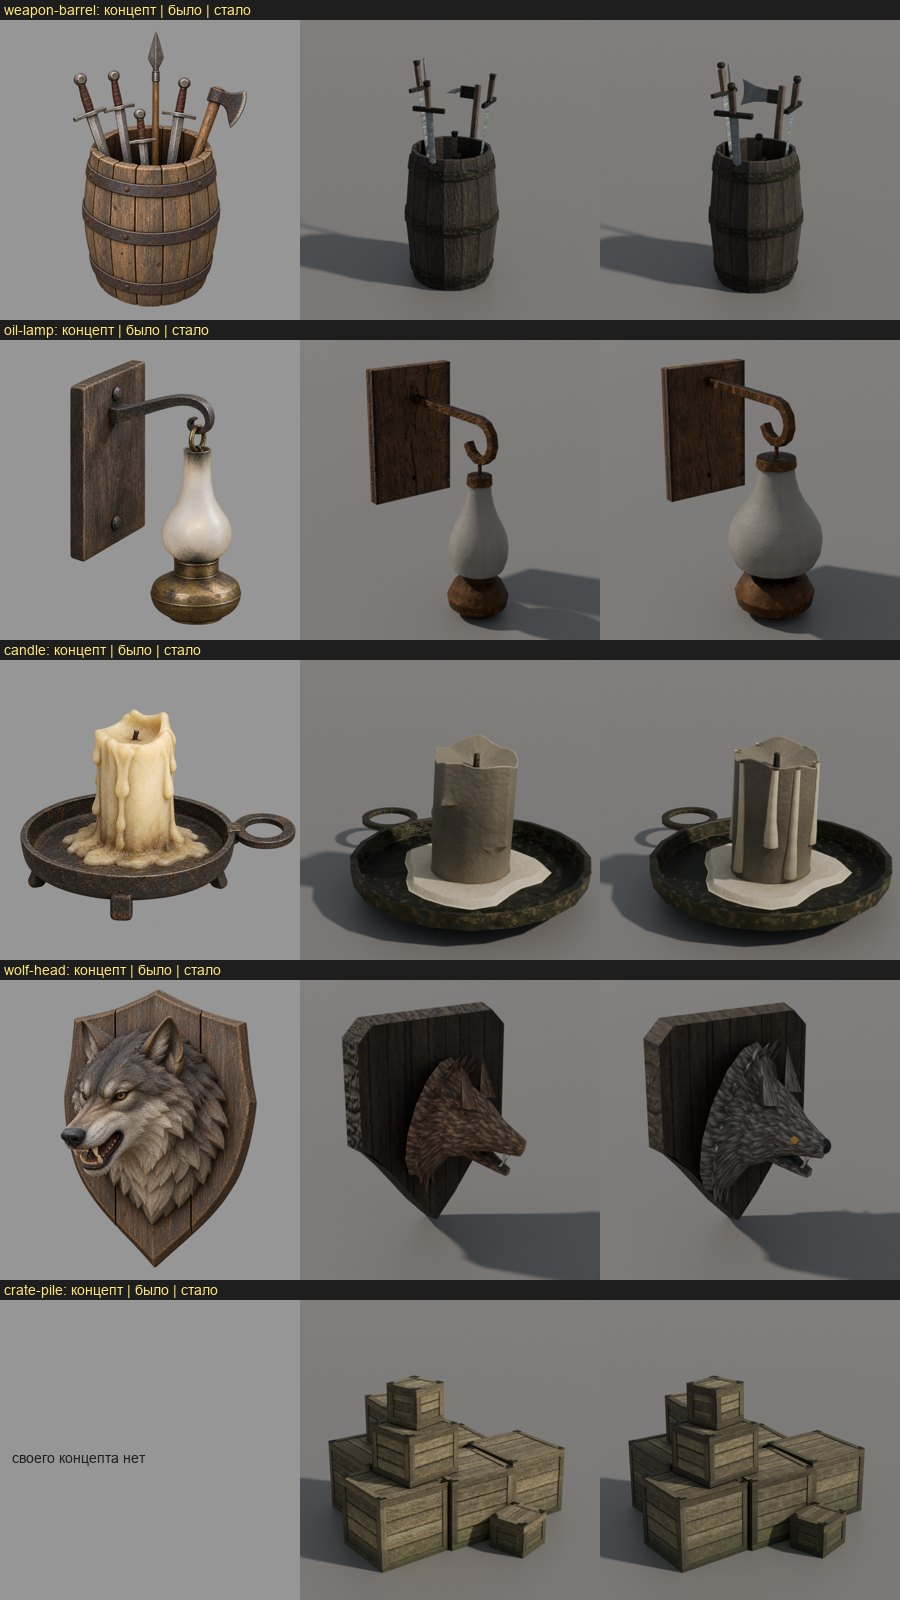
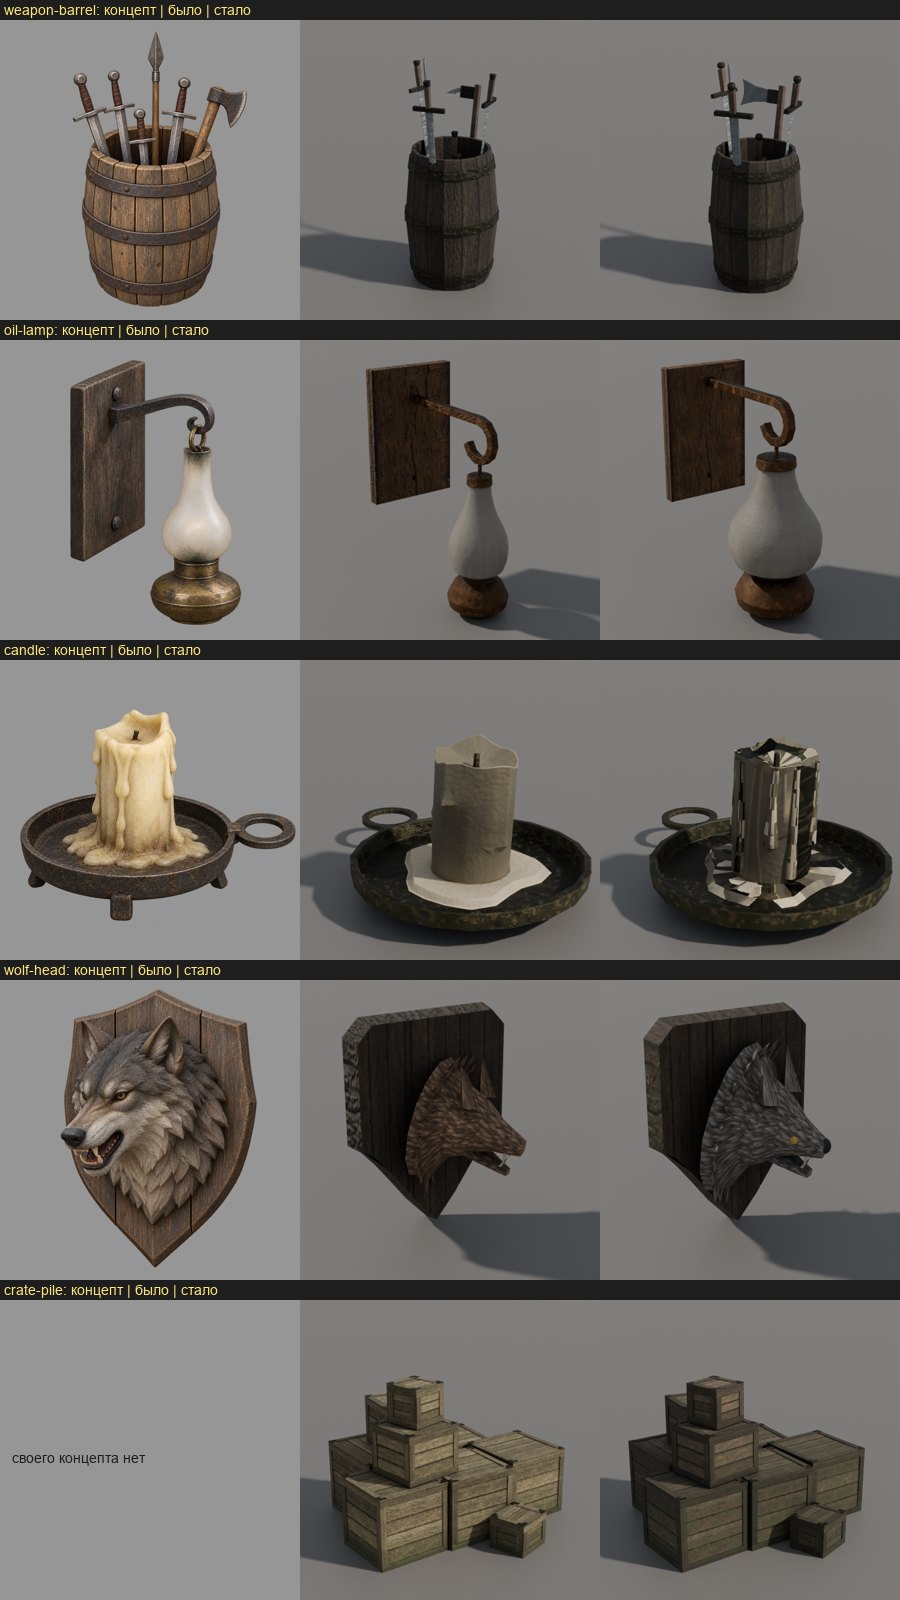
content: candle body faces out; darker crate pile; in-game check
The candle body was open at the bottom and the shared normal
recalculation turned it inside out, so it rendered black in game; a
hidden bottom cap closes it. Second crate pile pass: darker target,
moss over the full height, weak edge wear. Report gets the in-game
sheet (21/21 replaced, no originals opened) and the updated weak
points.

Changed region(s): [[0.7778, 0.4375, 0.9333, 0.5938], [0.7467, 0.875, 0.9644, 0.9688]]

diff --git a/scripts/content/mesh3d/blender/candle.py b/scripts/content/mesh3d/blender/candle.py
@@ -136,9 +136,11 @@ for k in range(csides):
     col.append(radial * (r_c * 0.6) + Z * (h_c - 0.014 - top_drop[k] * 0.5))   # melted rim folding in
     rows.append([P.vert(floor + tilt @ p, part) for p in col])
 centre_top = P.vert(floor + tilt @ (Z * (h_c - 0.03)), part)
+centre_bottom = P.vert(floor, part)   # a hidden cap under the foot: open, the body came out inside out in game
 n = len(rows[0])
 for k in range(csides):
     k2 = (k + 1) % csides
+    P.poly((rows[k2][0], rows[k][0], centre_bottom), WAX, ((0, 0), (0.1, 0), (0.05, 0.1)))
     u0, u1 = k / csides * 2 * math.pi * r_c / wax_tile, (k + 1) / csides * 2 * math.pi * r_c / wax_tile
     for i in range(n - 1):
         v0, v1 = i * h_c / crings / wax_tile, (i + 1) * h_c / crings / wax_tile

diff --git a/scripts/content/mesh3d/blender/weapon_barrel.py b/scripts/content/mesh3d/blender/weapon_barrel.py
@@ -171,9 +171,8 @@ def axe(top, axis, length):
 def spear(top, axis, length):
     flat, edge = frame(axis)
     hl, hw = cfg.get("spear", [0.32, 0.085])
-    tip = top - axis * 0.0
     socket = top + axis * hl
-    lens(socket, tip, hw, 0.016, STEEL, P.new_part(), taper=0.9)          # leaf from the socket to the point
+    lens(socket, top, hw, 0.016, STEEL, P.new_part(), taper=0.9)          # leaf from the socket to the point
     P.post(socket, socket + axis * 0.06, 0.04, 0.034, flat, edge, IRON, 0.1)
     P.post(socket + axis * 0.06, top + axis * length, 0.032, 0.032, flat, edge, HAFT, 0.3)
 

diff --git a/scripts/content/mesh3d/blender/wolf_head.py b/scripts/content/mesh3d/blender/wolf_head.py
@@ -149,6 +149,7 @@ for sx in (-1, 1):
     for i in range(4):
         P.poly((corners[i], corners[(i + 1) % 4], apex), FUR, ((0, 0), (0.1, 0), (0.05, 0.15)))
 
+
 def dome(centre, normal, radius, depth, material, segs=8):
     """A low dome (eye, nose) on the surface: a ring at the base and a rounded cap toward normal."""
     n = normal.normalized()

diff --git a/reports/content/2026-10-market-set/README.md b/reports/content/2026-10-market-set/README.md
@@ -37,7 +37,7 @@
 | ковёр | `NW_CITY_CARPET_03` | 32 / 2 | 50 → 480 (600) | 2048, 76% | свой рисунок (вид сверху своего концепта), бахрома, загнутый угол |
 | канаты | `NW_HARBOUR_ROPE_01` | 47 / 6 | 177 → 3880 (4000) | 2048, 14% | две бухты каната по спирали, вторая лежит на первой, концы |
 | поленница | `OC_FIREWOOD_V3` | 12 / 3 | 438 → 1968 (3000) | 2048, 28% | 90 поленьев (кругляк, половинки, четвертинки), кора, торцы с кольцами вокруг сердцевины |
-| свеча | `NW_CITY_CANDLE_01` | 157 / 5 | 124 → 2636 (2700) | 1024, 30% | железная плошка на ножках с кольцом, толстая свеча, восемь потёков с каплями, лужица воска |
+| свеча | `NW_CITY_CANDLE_01` | 157 / 5 | 124 → 2660 (2700) | 1024, 30% | железная плошка на ножках с кольцом, толстая свеча, восемь потёков с каплями, лужица воска |
 | лампа | `NW_CITY_OILLAMP_01` | 223 / 9 | 138 → 970 (1000) | 1024, 59% | дощечка, кованый кронштейн с завитком, латунный резервуар, крупное стекло-«груша» |
 | щит со скрещёнными мечами | `NW_CITY_DECO_SHIELD_01` | 46 / 4 | 326 → 408 (1500) | 1024, 72% | щит из четырёх досок, окрашенный в две половины без герба, обод и умбон, мечи за щитом |
 | мешки | `OC_SAECKE_01` | 98 / 3 | 252 → 2268 (2500) | 2048, 47% | семь мешков с перевязанными горловинами |
@@ -95,22 +95,31 @@
 
 - **Бочка с оружием.** Рукояти крупнее: восьмигранное навершие 5 см вместо 3,5, рукоять 14 см, гарда 24 см вместо 20. Клинки шире: 5,8 см вместо 4,8. У топора теперь лезвие-пластина 22 × 18 см с выгнутой кромкой. У копья — листовидный наконечник 32 × 8,5 см с железной втулкой. Модель — 1002 треугольника вместо 784.
 - **Лампа.** Стекло-«груша» крупнее: 9,8 × 22,5 см вместо 6,2 × 20. Резервуар 8,5 × 9 см вместо 6,5 × 8. Лампа отодвинута от стены на 28 см, кронштейн загибается ниже. Треугольников по-прежнему 970.
-- **Свеча.** Потёки теперь — восемь отдельных наплывов на боках свечи. Каждый — стержень, наполовину утопленный в свечу; книзу он толще и кончается каплей. Прежний способ (вздутия поверхности свечи) дважды давал ступеньки. Модель — 2636 треугольников, поэтому бюджет свечи поднят с 1600 до 2700.
+- **Свеча.** Потёки теперь — восемь отдельных наплывов на боках свечи. Каждый — стержень, наполовину утопленный в свечу; книзу он толще и кончается каплей. Прежний способ (вздутия поверхности свечи) дважды давал ступеньки. Модель — 2660 треугольников, поэтому бюджет свечи поднят с 1600 до 2700.
+  Снимок в игре показал старую ошибку: тело свечи было чёрным. Оно было открыто снизу, и общий пересчёт нормалей в `parts.py` вывернул его внутрь. Blender рисует обе стороны грани, поэтому на рендерах этого не было видно. Теперь у тела есть скрытое донце под лужицей.
 - **Голова волка.** Голова крупнее: сечения ×1,1–1,25, челюсть ×1,15. Уши больше. Появились янтарные глаза — своя зона `OWN_PROP_EYE` на копии плитки стекла. Появился чёрный нос — зона `OWN_PROP_NOSE` на копии кожи. Мех теперь серый, как на концепте, а не замеренного коричневатого цвета тела волка из оригинала. Пятна тона на морде убраны: `tone_spread` 0,05, выгорание отключено.
-- **Куча ящиков.** Дерево темнее и зеленее: цель зоны 0,040 / 0,034 / 0,018 вместо замеренных 0,059 / 0,048 / 0,024. Выгорание верхов снято: оно и давало серо-белый вид. Мох поднимается до 60 см вместо 35. Средний цвет теперь ниже, чем у оригинала: у оригинала тёмный мох нарисован в самой текстуре, и в игре куча читается темнее своего среднего цвета.
+- **Куча ящиков.** Выгорание верхов снято: оно и давало серо-белый вид. Дерево темнее и зеленее. Первый проход (цель зоны ×0,68 от замера, мох до 60 см) в игре всё ещё был светлее оригинала. Второй проход:
+  - цель зоны 0,024 / 0,020 / 0,011 вместо замеренных 0,059 / 0,048 / 0,024;
+  - мох и сырость плавно идут по всей высоте кучи (`wet_height` 3 м);
+  - светлые кромки ослаблены (`edge_wear` 0,2 вместо 0,7).
+
+  Средний цвет теперь намного ниже, чем у оригинала. Наши ящики движок освещает ярче оригинальных при том же альбедо, а у оригинала грязь и мох нарисованы в самой текстуре.
 
 Все пять атласов запечены на Ryzen (`gq batch`) уже с ослабленным рельефом плиток: дерево ×0,25, ткань ×0,12. Это правка `bake_atlas.py` сессии мебели из #344, [её отчёт](../2026-10-prop-relief/README.md).
 
 ![Концепт, модель до доработки и после](rework-models.jpg)
 
+Проверка в игре — тот же `own-mesh-market` на Ryzen с пересобранным корнем набора: заменены все 21 меш, ни один оригинал не открыт, используются 42 своих ключа.
+
+![В игре: оригинал, до доработки, после](rework-game.jpg)
+
 ## Что осталось слабым
 
-- **Бочка с оружием.** Клинки и рукояти тоньше и темнее, чем у оригинала, у которого крупные пёстрые рукояти. Головки топора и копья маленькие.
-- **Лампа** заметно меньше оригинального светящегося шара: стекло — узкая «груша», как на концепте. В интерьере свет читается слабее.
-- **Свеча.** Потёки едва видны. Это вторая неудачная попытка, по правилу скилла остановились.
-- **Голова волка** проще концепта: нет глаз и чёрного носа, мех в замеренном коричневатом цвете оригинала.
+- **Бочка с оружием.** Рукояти одного тёмного цвета, у оригинала они пёстрые.
+- **Свеча** — самый тяжёлый предмет на экземпляр: 2660 треугольников. В мире 157 свечей, это около 420 тыс. треугольников против 19 тыс. у оригинала.
+- **Голова волка** на стенде висит в тёмном углу: глаза и нос видны только на рендере.
 - **Канаты.** Сечение пятигранное, на атласе около 2 пикселей на сантиметр: пряди с близи размыты. Бухты ниже bbox оригинала на 11 см.
-- **Куча ящиков** светлее оригинала, хотя средний цвет совпадает. У оригинала тёмный мох и зелень.
+- **Куча ящиков** после двух проходов всё ещё чище оригинала: мох у нас — пятна шума атласа поверх чистой плитки. Дальше нужна своя замшелая плитка дерева, а не новые настройки.
 - **Мешки** короче bbox оригинала в глубину на 40 см.
 - **Окно с улицы:** стекло тёмное, как у замера оригинала, и переплёт издали не читается.
 - Кадры **указателя и прилавка** на стенде мало что показывают: копии стоят у фонарного столба и в тёмной лавке.

diff --git a/docs/own-content.md b/docs/own-content.md
@@ -136,11 +136,11 @@
 **2026-10-21 — набор рынка: доработаны пять слабых предметов.** Просьба пользователя до решения о включении.
 - Бочка с оружием: крупные рукояти с навершиями, топор с широким лезвием, копьё с листовым наконечником.
 - Лампа: крупное стекло.
-- Свеча: потёки — отдельные наплывы с каплями; бюджет поднят до 2700 треугольников.
+- Свеча: потёки — отдельные наплывы с каплями; бюджет поднят до 2700 треугольников. Тело свечи было открыто снизу, `parts.py` выворачивал его нормали внутрь, и в игре оно было чёрным; теперь у него есть донце.
 - Голова волка: крупнее, глаза и нос — свои зоны, серый мех.
-- Куча ящиков: темнее и зеленее, без выгорания верхов.
+- Куча ящиков: без выгорания верхов, темнее, мох по всей высоте. После двух проходов она всё ещё чище оригинала: нужна своя замшелая плитка.
 
-Атласы запечены уже с ослабленным рельефом плиток (запись ниже). [Что изменилось и снимки](../reports/content/2026-10-market-set/README.md#доработка-пяти-слабых-предметов).
+Атласы запечены уже с ослабленным рельефом плиток (запись ниже). В игре на Ryzen заменены все 21 меш, оригиналы не открываются. [Что изменилось и снимки](../reports/content/2026-10-market-set/README.md#доработка-пяти-слабых-предметов).
 
 **2026-10-21 — рельеф плиток в атласах предметов.** Пользователь: дерево наших предметов (сундук, бочка, набор рынка) выглядит имитацией — слишком рельефное, а навес — твёрдой поверхностью вместо ткани. Причина в числах: `bakeoff.filtered_maps` выводит карту нормалей из яркости и растягивает её на полный диапазон, средний наклон нормали у плитки дерева 38°, у холста 64°, у железа 54°; `bake_atlas.py` запекал её с силой 1. Игровые крупные планы на Ryzen трёх сил (×1, ×0,25, ×0,1) выбрали ×0,25 для дерева и ×0,12 для ткани; пользователь утвердил. Теперь сила задаётся по материалу зоны, светлых кромок у ткани нет. Медиана наклона атласа навеса — 41° → 4°. Навес переделан: полотно лежит на трёх консолях и провисает между ними, как у оригинала. Все 24 атласа перепечены на Ryzen одной заявкой `gq batch` (15 минут). Сравнение «было/стало» снято на Mac, потому что Ryzen был занят игрой пользователя: стенд `own-mesh-relief`, 16 крупных планов. Все 10 предметов взяты из наших GLB, наборы открытых файлов двух корней совпали; кадры рынка — 24 из 24 мешей заменены, оригиналы не открываются. [Отчёт](../reports/content/2026-10-prop-relief/README.md).
 
